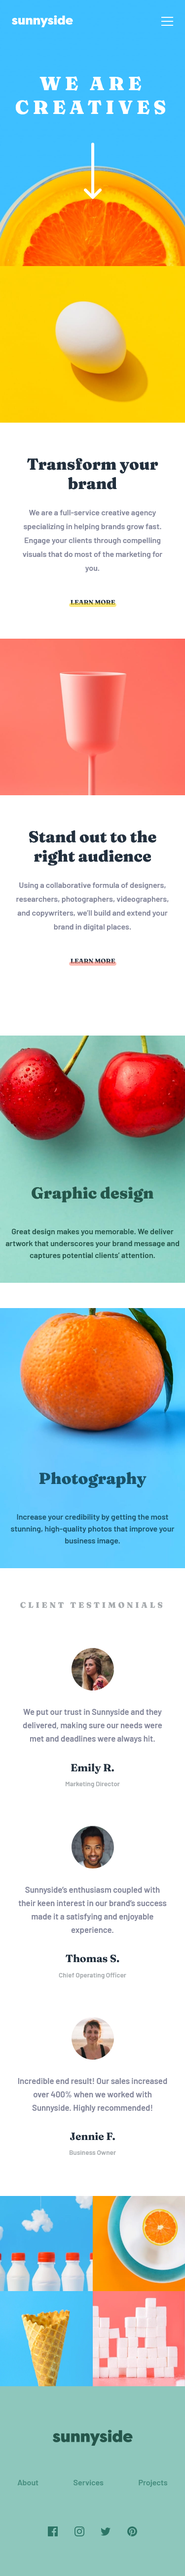
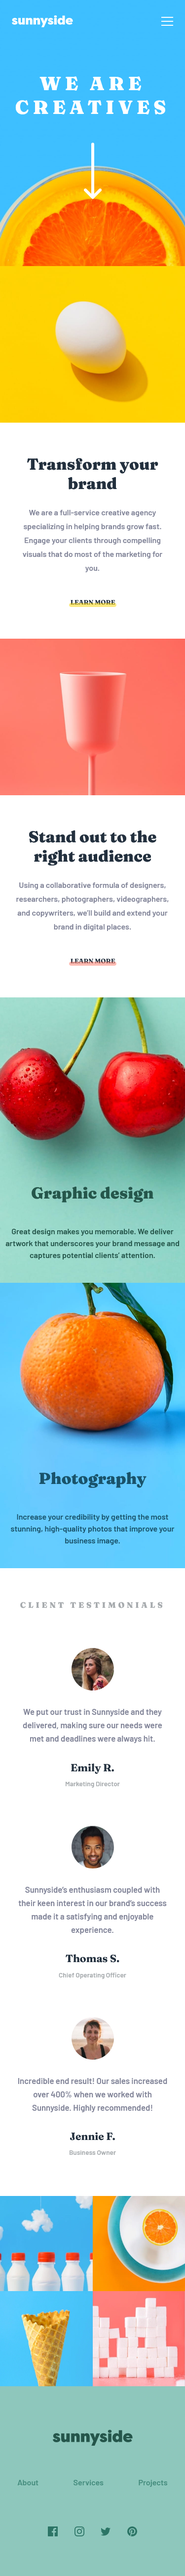
Learn Fixed

Changed region(s): [[0.0, 0.4986, 1.0, 0.5297], [0.0, 0.3739, 1.0, 0.4051]]

diff --git a/app/scss/style.css b/app/scss/style.css
@@ -362,6 +362,7 @@ a {
 .photo-desing_container {
   background-repeat: no-repeat;
   background-size: cover;
+  background-position: center center;
   min-height: 36rem;
   display: -webkit-box;
   display: -ms-flexbox;

diff --git a/app/scss/_photo-desing.scss b/app/scss/_photo-desing.scss
@@ -2,6 +2,7 @@
   &_container{
     background-repeat: no-repeat;
     background-size: cover;
+    background-position: center center;
     min-height: 36rem;
 
 
